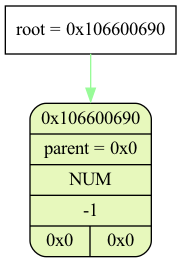
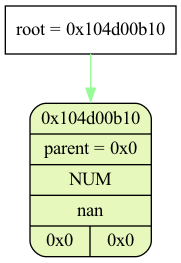
fixed getP, added checking for base of power

diff --git a/logs/log.html b/logs/log.html
@@ -1,28 +1,30 @@
 <html>
 <pre>
 int main() at main.cpp(13):
-Tree 0x16bd533e0 (<span style="color: green">OK</span>) "&tree" at int main() at main.cpp(10):
-{root = 0x106600bd0}</pre>
+Tree 0x16d59f3e0 (<span style="color: green">OK</span>) "&tree" at int main() at main.cpp(10):
+{root = 0x104d00bd0}</pre>
 <img src="./images/tree_dump1.png">
-<pre>
-int main() at main.cpp(15):
-Tree 0x16bd533e0 (<span style="color: green">OK</span>) "&tree" at int main() at main.cpp(10):
-{root = 0x106600b10}</pre>
+<pre>ERROR: base of power is below or equal zero, 0x104d00bd0</pre><pre>Subtree dump: root = 0x104d00bd0</pre>
 <img src="./images/tree_dump2.png">
 <pre>
-int main() at main.cpp(20):
-Tree 0x16bd53480 (<span style="color: green">OK</span>) "&dtree" at int main() at main.cpp(18):
-{root = 0x106600850}</pre>
+int main() at main.cpp(15):
+Tree 0x16d59f3e0 (<span style="color: green">OK</span>) "&tree" at int main() at main.cpp(10):
+{root = 0x104d00b50}</pre>
 <img src="./images/tree_dump3.png">
 <pre>
-int main() at main.cpp(22):
-Tree 0x16bd53480 (<span style="color: green">OK</span>) "&dtree" at int main() at main.cpp(18):
-{root = 0x106600690}</pre>
+int main() at main.cpp(20):
+Tree 0x16d59f480 (<span style="color: green">OK</span>) "&dtree" at int main() at main.cpp(18):
+{root = 0x104d00b10}</pre>
 <img src="./images/tree_dump4.png">
 <pre>
-Tree 0x16bd53480 "&dtree" at int main() at main.cpp(18): DESTRUCTED
+int main() at main.cpp(22):
+Tree 0x16d59f480 (<span style="color: green">OK</span>) "&dtree" at int main() at main.cpp(18):
+{root = 0x104d00ad0}</pre>
+<img src="./images/tree_dump5.png">
+<pre>
+Tree 0x16d59f480 "&dtree" at int main() at main.cpp(18): DESTRUCTED
 </pre>
 <pre>
-Tree 0x16bd533e0 "&tree" at int main() at main.cpp(10): DESTRUCTED
+Tree 0x16d59f3e0 "&tree" at int main() at main.cpp(10): DESTRUCTED
 </pre>
 </html>

diff --git a/source/diff.cpp b/source/diff.cpp
@@ -115,7 +115,17 @@ double eval(const tree_node_t * node)
         case TYPE_SIN: return sin(evalR);
         case TYPE_COS: return cos(evalR);
         case TYPE_LN:  return log(evalR);
-        case TYPE_POW: return pow(evalL, evalR);
+        case TYPE_POW:
+        {
+            double eval_left = evalL;
+            if (eval_left <= 0)
+            {
+                fprintf(log_file, "<pre>ERROR: base of power is below or equal zero, %p</pre>", node);
+                subtree_dump(node);
+                return NAN;
+            }
+            return pow(eval_left, evalR);
+        }
         case TYPE_LOG:
         {
             double eval_left = evalL;
@@ -142,7 +152,12 @@ tree_node_t * diff(tree_node_t * node)
 
     switch (node->type)
     {
-        case TYPE_NUM: return NUM(0);
+        case TYPE_NUM:
+        {
+            if (!isfinite(NAN))
+                return NUM(NAN);
+            return NUM(0);
+        }
         case TYPE_VAR: return NUM(1);
         case TYPE_ADD: return ADD(dL, dR);
         case TYPE_SUB: return SUB(dL, dR);

diff --git a/source/simplify.cpp b/source/simplify.cpp
@@ -54,10 +54,10 @@ void tree_simplify(tree_t * tree, tree_node_t ** node)
     }
     else if ((*node)->type == TYPE_POW)
     {
-        if (CMP_LEFT(0))
+        if (CMP_LEFT(0) || LEFT_BELOW_ZERO)
         {
-            if (CMP_RIGHT(0)) num_instead_node(tree, node, 1);
-            else              num_instead_node(tree, node, 0);
+            fprintf(log_file, "<pre>ERROR: base of power is below or equal zero, %p</pre>", node);
+            return;
         }
         else if (CMP_LEFT(1))   num_instead_node(tree, node, 1);
         else if (CMP_RIGHT(1)) left_instead_node(tree, node);

diff --git a/include/dsl.h b/include/dsl.h
@@ -25,3 +25,7 @@
 #define CMP_LEFT(x)  ((*node)->left->type  == TYPE_NUM && is_equal((*node)->left->value,  x))
 
 #define CMP_RIGHT(x) ((*node)->right->type == TYPE_NUM && is_equal((*node)->right->value, x))
+
+#define RIGHT_BELOW_ZERO ((*node)->right->type == TYPE_NUM && (*node)->right->value < 0)
+#define  LEFT_BELOW_ZERO ((*node)->left->type  == TYPE_NUM && (*node)->left->value  < 0)
+

diff --git a/source/get.cpp b/source/get.cpp
@@ -80,7 +80,7 @@ tree_node_t * getP(expr_text * expr)
         expr->pos++;
         return val;
     }
-    else if ('0' <= expr->buffer[expr->pos] && expr->buffer[expr->pos] <= '9')
+    else if (('0' <= expr->buffer[expr->pos] && expr->buffer[expr->pos] <= '9') || expr->buffer[expr->pos] == '-')
         return getN(expr);
     else
         return getW(expr);
